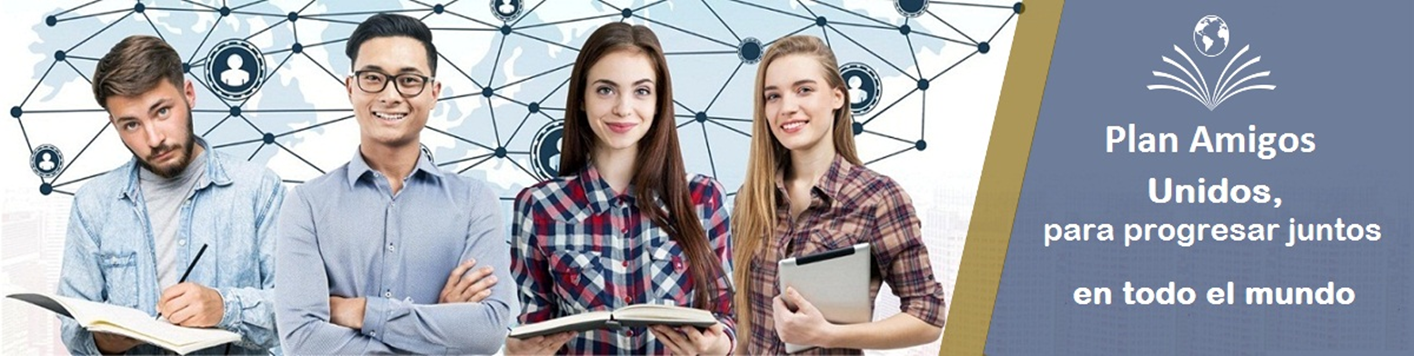
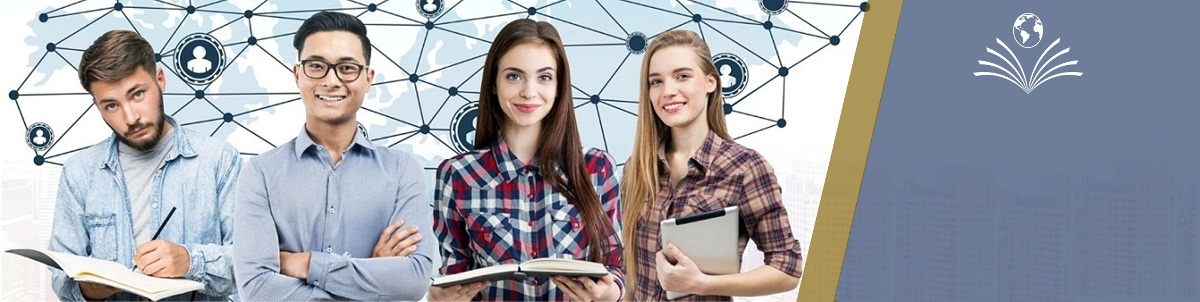
ok

diff --git a/src/view/joinus/Joinus.jsx b/src/view/joinus/Joinus.jsx
@@ -35,16 +35,30 @@ export default function Joinus() {
             </b> 
             </h3>
 
+
+
             <br />
-            <div   align="center">
-                <img 
+            
+            <div className="container_bannerus"  align="center">
+                <img
                 id="imagenajustada"
                 className="d-block w-100"
                 src={afiliados1}
-                height="250"
+                width="400"
+                height="450"
                 alt="..."
                 />
+                <p> <b>Friends Plan <br />
+                We unite <br />
+                to progress together <br />
+                around the world <br /> </b>
+                </p>
+                <br />
+                <br />
+                
                 </div>
+            <br />
+
 
                 <br />
 

diff --git a/src/view/rejoignezNous/RejoignezNous.jsx b/src/view/rejoignezNous/RejoignezNous.jsx
@@ -36,16 +36,24 @@ export default function RejoignezNous() {
             </h3>
 
             <br />
-            <div   align="center">
-                <img 
+            
+            <div className="container_bannerus"  align="center">
+                <img
                 id="imagenajustada"
                 className="d-block w-100"
                 src={afiliados1}
-                height="250"
+                width="400"
+                height="450"
                 alt="..."
                 />
+                <p> <b>Plan des amis <br />
+                Nous nous unissons <br />
+                pour progresser ensemble <br />
+                dans le monde entier </b>
+                </p>
+              
+                <br />
                 </div>
-
                 <br />
 
            <p>

diff --git a/src/view/unetenos/Unetenos.jsx b/src/view/unetenos/Unetenos.jsx
@@ -35,15 +35,22 @@ export default function Unetenos() {
             </h3>
 
             <br />
-            <div   align="center">
-                <img 
+            <div className="container_bannerus"  align="center">
+                <img
                 id="imagenajustada"
                 className="d-block w-100"
                 src={afiliados1}
-                height="250"
+                width="400"
+                height="450"
                 alt="..."
                 />
+                <p> <b>Plan amigos <br />
+                Unidos <br />
+                para progresar juntos<br />
+                en todo el mundo</b>
+                </p>
                 </div>
+                  <br />
 
                 <br />
                 <p>

diff --git a/src/view/joinus/Joinus.css b/src/view/joinus/Joinus.css
@@ -29,3 +29,26 @@
 
 }
 
+
+.container_bannerus{
+    height: 50vh;
+    width: 100%;
+    position: relative;
+  
+  }
+  
+  .container_bannerus img{
+    height: 100%;
+    width: 100%;
+  
+  }
+  
+  .container_bannerus p{
+    position: absolute;
+    color: white;
+    top: 35%;
+    right: 10%;
+    transform: translate(-0%, -0%);
+    font-size: 140%;
+  }
+  
